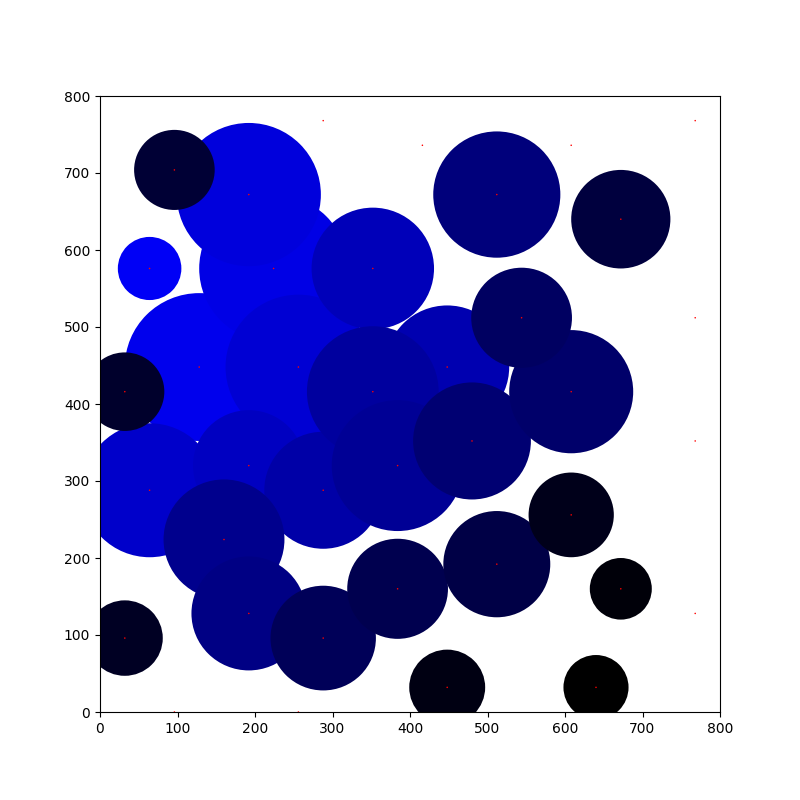
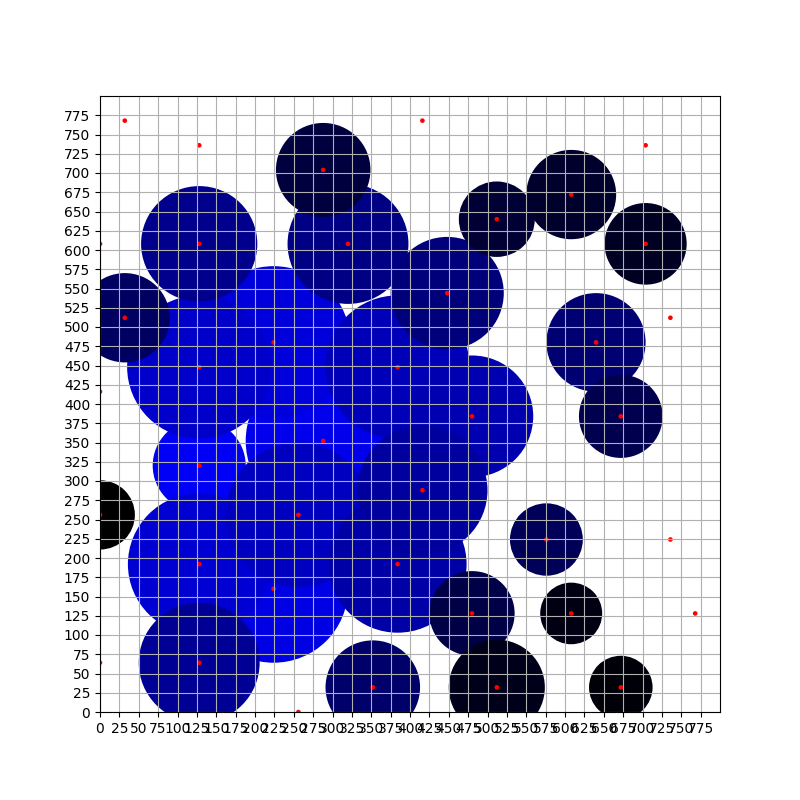
change visualisation: add grid

diff --git a/covering/visualisation.py b/covering/visualisation.py
@@ -7,6 +7,23 @@ def covering_visualisation(gen, stations, points):
     ax.set_xlim(0, gen.area[0])
     ax.set_ylim(0, gen.area[1])
 
+    x_grid = list()
+    y_grid = list()
+
+    x_max = int(gen.area[0] // gen.grid[0])
+    y_max = int(gen.area[1] // gen.grid[1])
+
+    for i in range(0, x_max):
+        x_grid.append(gen.grid[0] * i)
+
+    for i in range(0, y_max):
+        y_grid.append(gen.grid[1] * i)
+
+    ax.set_xticks(x_grid)
+    ax.set_yticks(y_grid)
+
+    ax.grid(True)
+
     def get_circle(point, radius, color):
         return plt.Circle((point[0]*gen.cell[0], point[1]*gen.cell[0]), radius, fc=color)
 
@@ -23,7 +40,6 @@ def covering_visualisation(gen, stations, points):
         )
 
     for point in points:
-        ax.add_artist(get_circle(point, 1, 'r'))
-
+        ax.add_artist(get_circle(point, 3, 'r'))
 
     fig.savefig('../covering/visualisation/covering.png')
